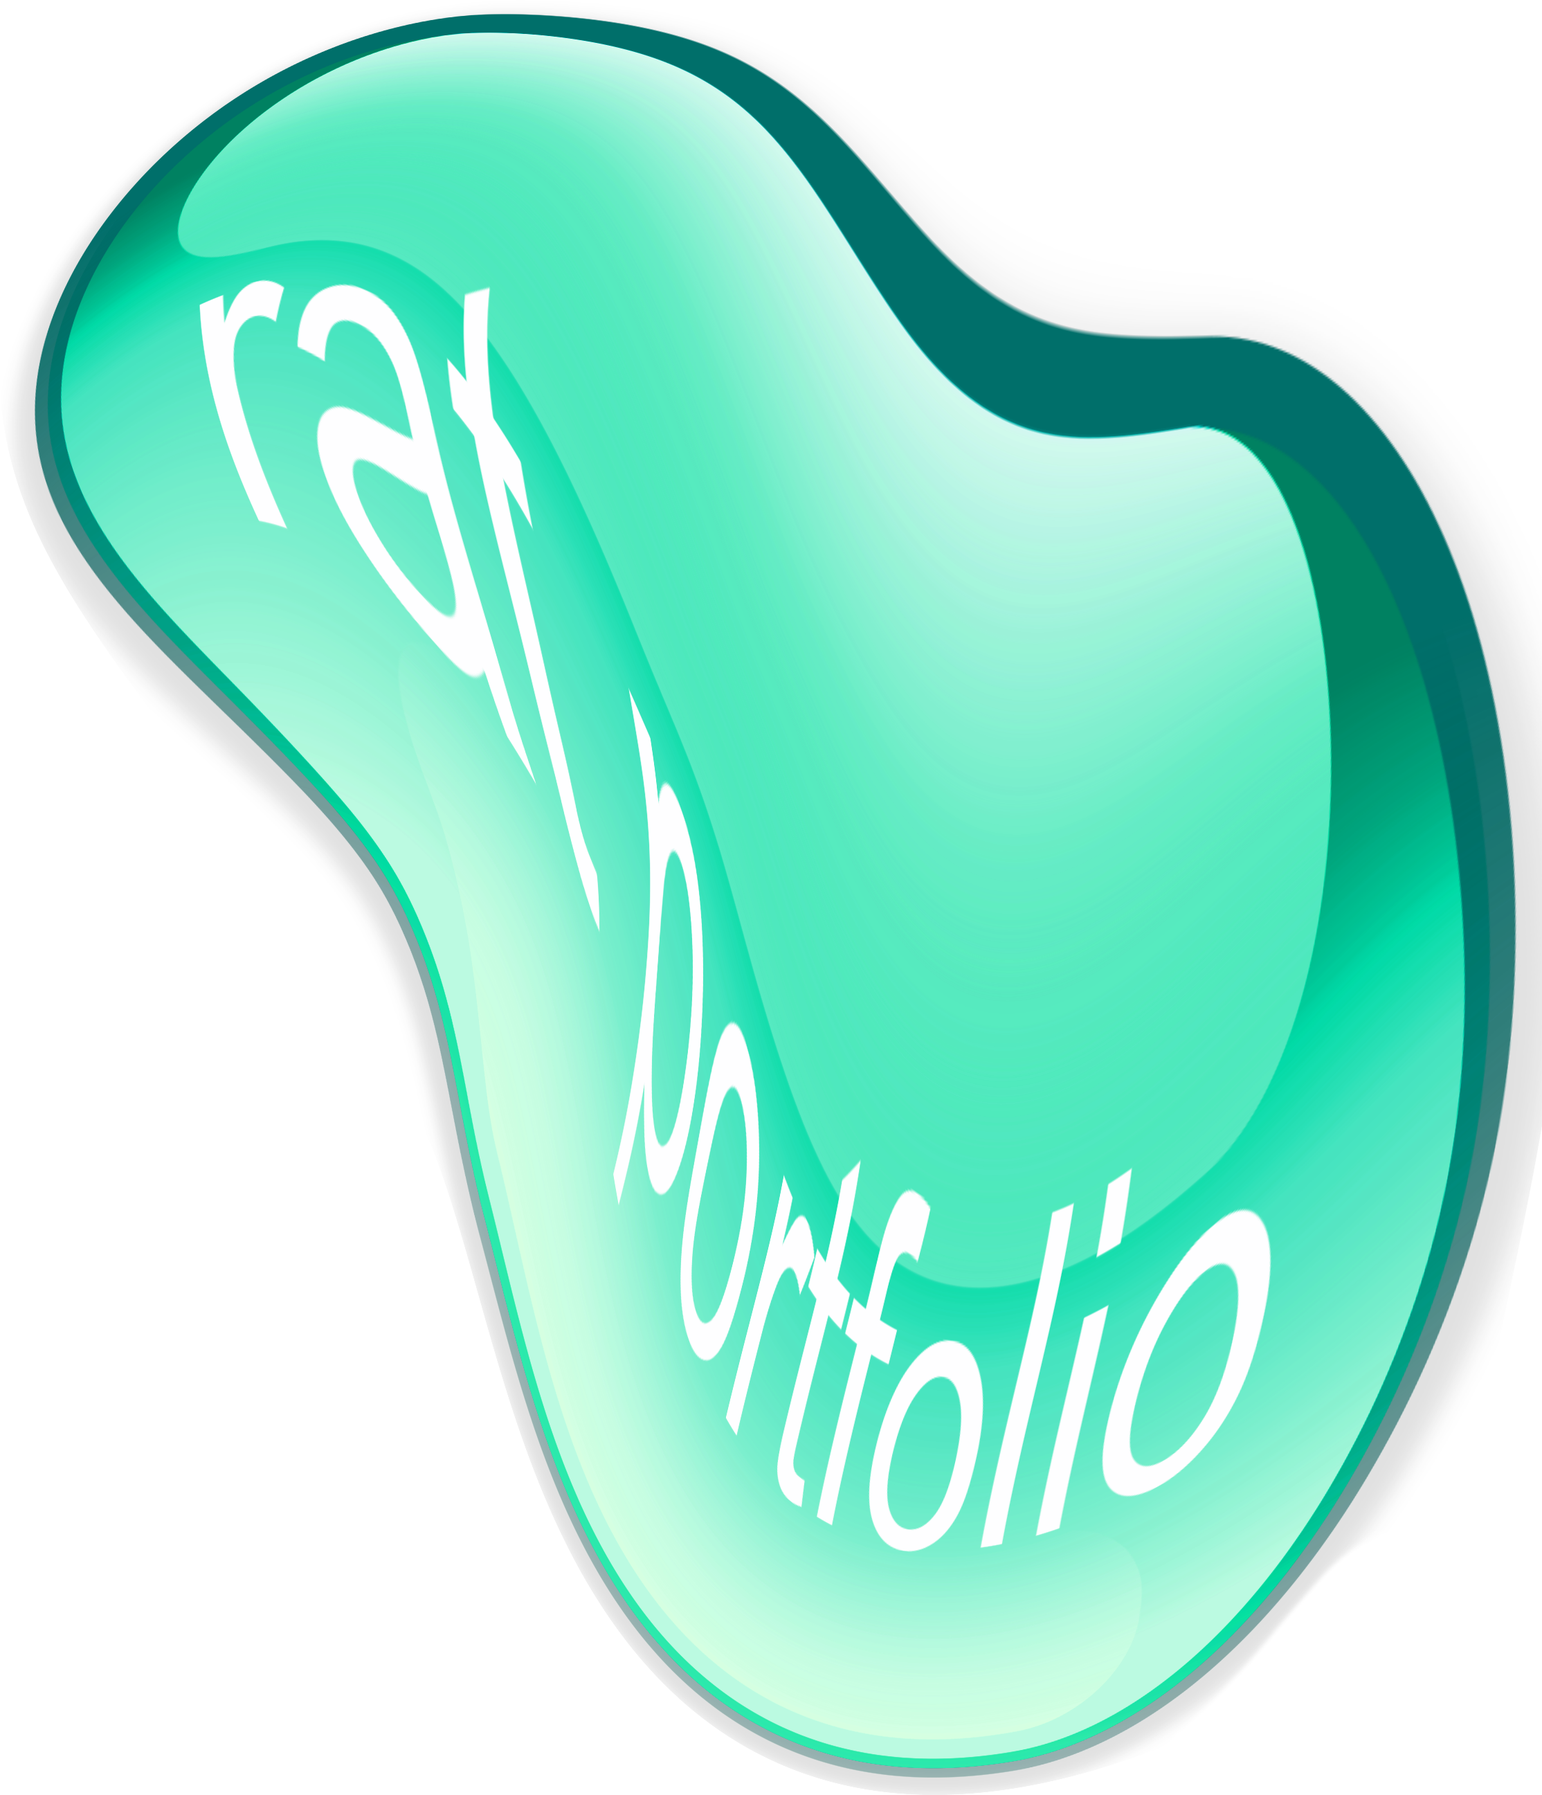
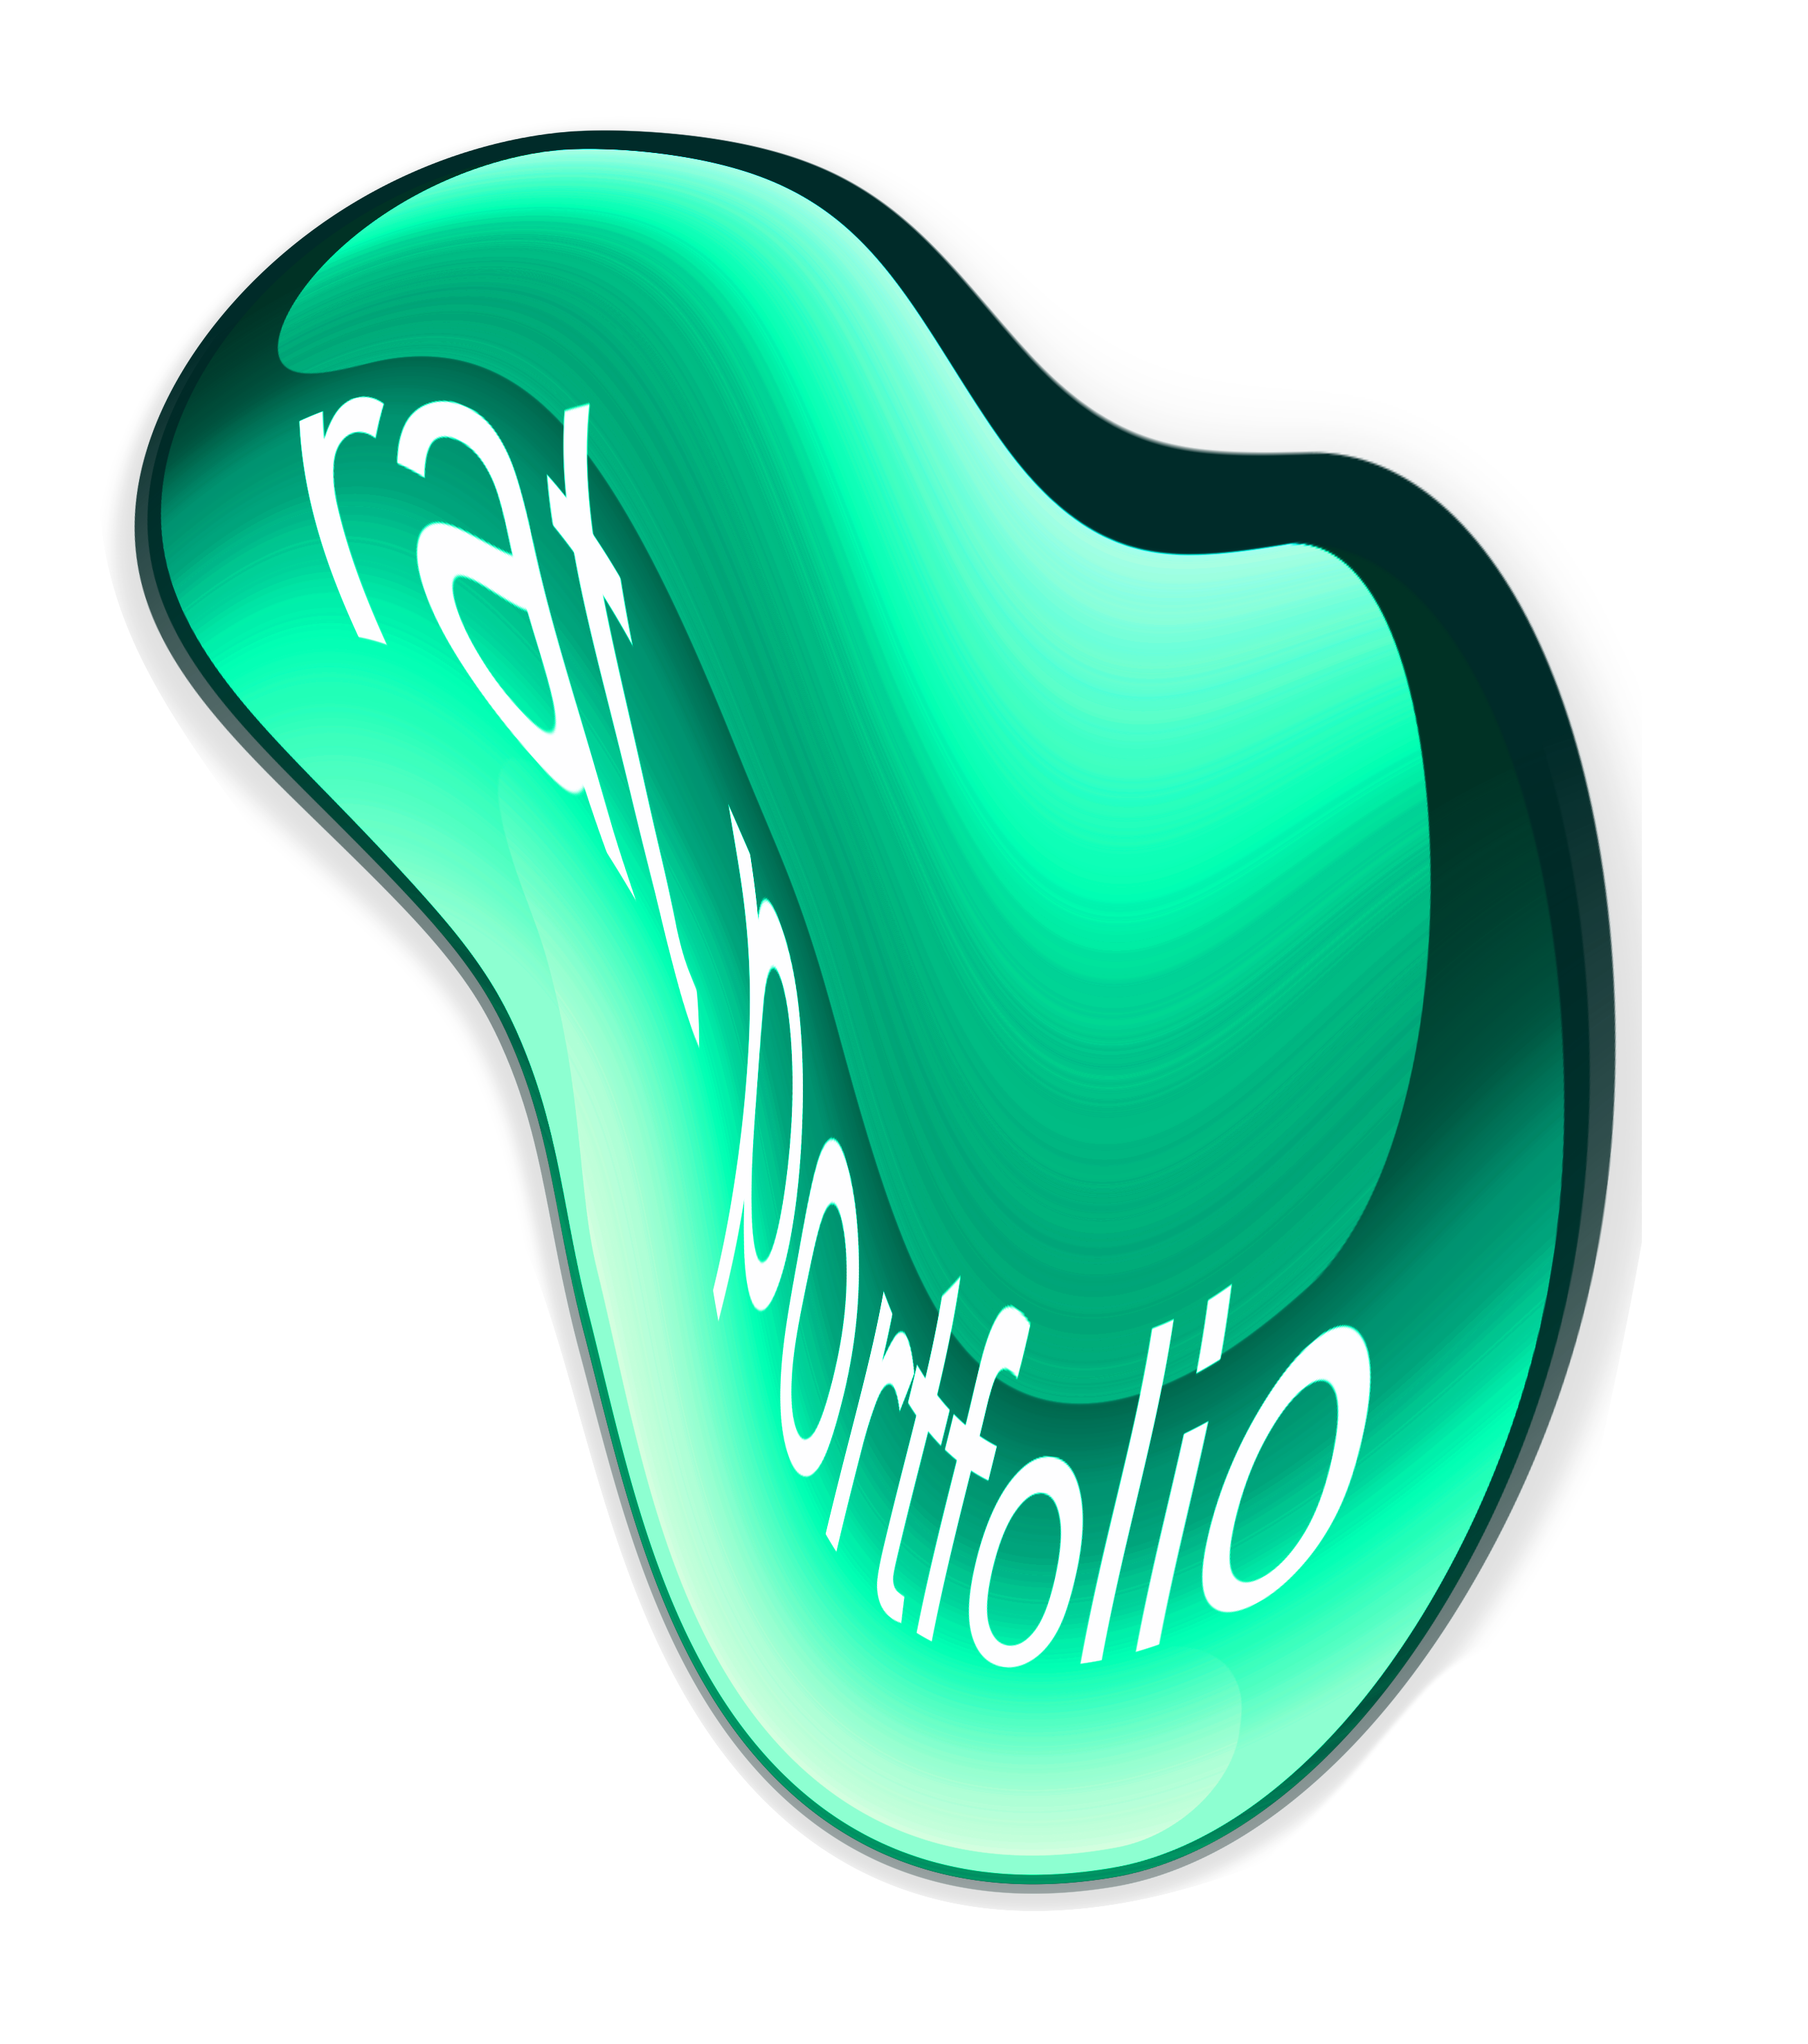
test fallback png btns
ask Matthew

diff --git a/src/FontButtons.jsx b/src/FontButtons.jsx
@@ -1,50 +1,82 @@
-const FontButtons = ({ handleButtonClick, handleSm00chClick}) => {
+const FontButtons = ({ handleButtonClick, handleSm00chClick }) => {
   return (
     <>
-     
-
       {/* Mobile Buttons */}
       <div className="sm:hidden fixed right-0 top-1/2 transform -translate-y-1/2 flex flex-col gap-6 z-50 items-end">
-        <button 
-          onClick={() => handleButtonClick("arial5")} 
-          className="custom-button bg-arial5-button hover:opacity-80 transition-opacity"
-          style={{ width: '120px', height: '120px' }}
+        <button
+          onClick={() => handleButtonClick("arial5")}
+          className="hover:opacity-80 transition-opacity"
+          style={{ width: '120px', height: '120px', padding: 0, border: 'none', background: 'transparent' }}
           aria-label="Select gencive5"
-        />
-        <button 
-          onClick={() => handleButtonClick("triple")} 
-          className="custom-button bg-triple-button hover:opacity-80 transition-opacity"
-          style={{ width: '120px', height: '120px' }}
+        >
+          <picture>
+            <source srcSet="/src/assets/Btngencive5.webp" type="image/webp" />
+            <img src="/src/assets/Btngencive5.png" alt="gencive5" style={{ width: '100%', height: '100%' }} />
+          </picture>
+        </button>
+
+        <button
+          onClick={() => handleButtonClick("triple")}
+          className="hover:opacity-80 transition-opacity"
+          style={{ width: '120px', height: '120px', padding: 0, border: 'none', background: 'transparent' }}
           aria-label="Select rat portfolio"
-        />
-        <button 
-          onClick={handleSm00chClick} 
-          className="custom-button bg-sm00ch-button hover:opacity-80 transition-opacity"
-          style={{ width: '120px', height: '120px' }}
+        >
+          <picture>
+            <source srcSet="/src/assets/Btnrat.webp" type="image/webp" />
+            <img src="/src/assets/Btnrat.png" alt="rat portfolio" style={{ width: '100%', height: '100%' }} />
+          </picture>
+        </button>
+
+        <button
+          onClick={handleSm00chClick}
+          className="hover:opacity-80 transition-opacity"
+          style={{ width: '120px', height: '120px', padding: 0, border: 'none', background: 'transparent' }}
           aria-label="Select Sm00ch"
-        />
+        >
+          <picture>
+            <source srcSet="/src/assets/Btnsm00ch.webp" type="image/webp" />
+            <img src="/src/assets/Btnsm00ch.png" alt="Sm00ch" style={{ width: '100%', height: '100%' }} />
+          </picture>
+        </button>
       </div>
 
       {/* Desktop Buttons */}
       <div className="hidden sm:flex fixed left-5 top-1/2 transform -translate-y-1/2 flex-col gap-6 z-50">
-        <button 
-          onClick={() => handleButtonClick("arial5")} 
-          className="custom-button bg-arial5-button hover:opacity-90 transition-opacity"
-          style={{ width: '140px', height: '140px' }}
+        <button
+          onClick={() => handleButtonClick("arial5")}
+          className="hover:opacity-90 transition-opacity"
+          style={{ width: '140px', height: '140px', padding: 0, border: 'none', background: 'transparent' }}
           aria-label="Select gencive5"
-        />
-        <button 
-          onClick={() => handleButtonClick("triple")} 
-          className="custom-button bg-triple-button hover:opacity-90 transition-opacity"
-          style={{ width: '140px', height: '140px' }}
+        >
+          <picture>
+            <source srcSet="/src/assets/Btngencive5.webp" type="image/webp" />
+            <img src="/src/assets/Btngencive5.png" alt="gencive5" style={{ width: '100%', height: '100%' }} />
+          </picture>
+        </button>
+
+        <button
+          onClick={() => handleButtonClick("triple")}
+          className="hover:opacity-90 transition-opacity"
+          style={{ width: '140px', height: '140px', padding: 0, border: 'none', background: 'transparent' }}
           aria-label="Select rat portfolio"
-        />
-        <button 
-          onClick={handleSm00chClick} 
-          className="custom-button bg-sm00ch-button hover:opacity-90 transition-opacity"
-          style={{ width: '140px', height: '140px' }}
+        >
+          <picture>
+            <source srcSet="/src/assets/Btnrat.webp" type="image/webp" />
+            <img src="/src/assets/Btnrat.png" alt="rat portfolio" style={{ width: '100%', height: '100%' }} />
+          </picture>
+        </button>
+
+        <button
+          onClick={handleSm00chClick}
+          className="hover:opacity-90 transition-opacity"
+          style={{ width: '140px', height: '140px', padding: 0, border: 'none', background: 'transparent' }}
           aria-label="Select Sm00ch"
-        />
+        >
+          <picture>
+            <source srcSet="/src/assets/Btnsm00ch.webp" type="image/webp" />
+            <img src="/src/assets/Btnsm00ch.png" alt="Sm00ch" style={{ width: '100%', height: '100%' }} />
+          </picture>
+        </button>
       </div>
     </>
   );

diff --git a/src/styles.css b/src/styles.css
@@ -133,6 +133,7 @@ div{
 
 .bg-arial5-button {
   background-image: url('/src/assets/Btngencive5.webp');
+  background-color: transparent !important;
 }
 
 .bg-triple-button {
